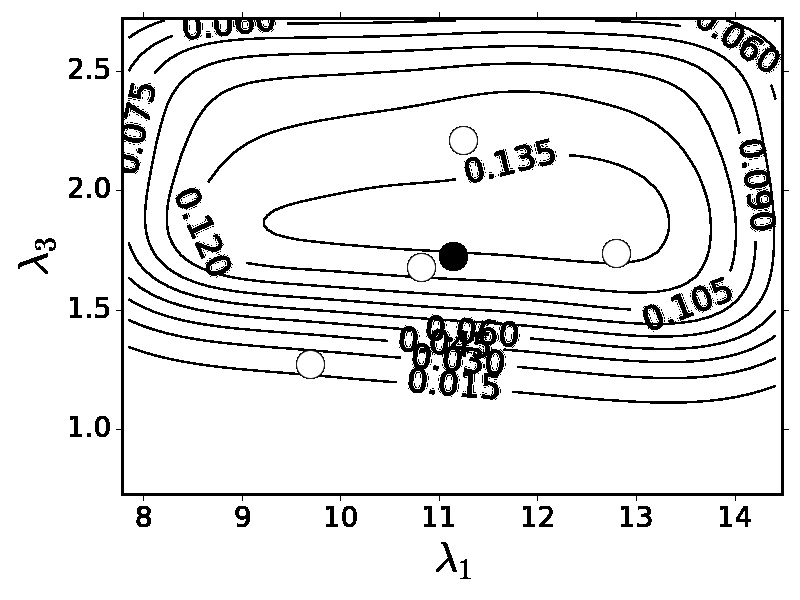
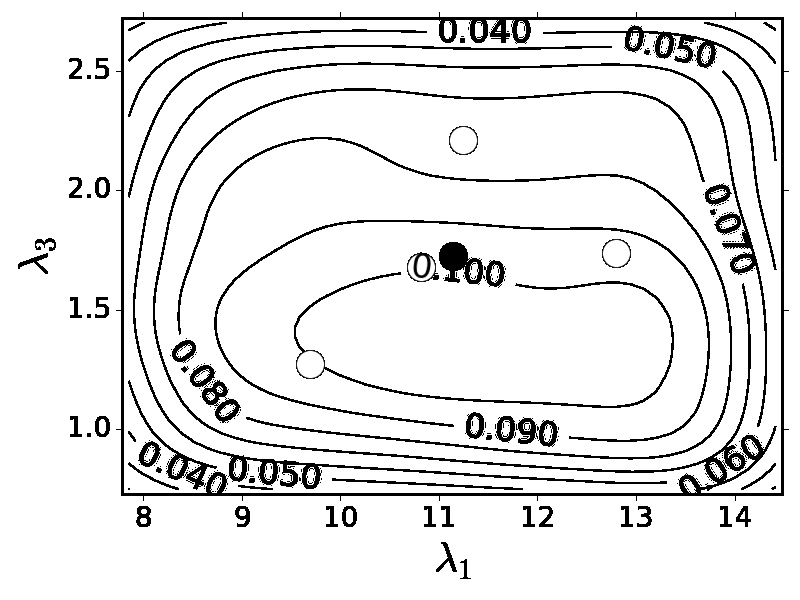
Added 4var model

diff --git a/examples/Yongcheng/3 variables code---no tf and D/6wks_4vars.py b/examples/Yongcheng/3 variables code---no tf and D/6wks_4vars.py
@@ -1,0 +1,122 @@
+# -*- coding: utf-8 -*-
+#! /usr/bin/env python
+
+# Copyright (C) 2014-2016 The BET Development Team
+
+import numpy as np
+import bet.calculateP.simpleFunP as simpleFunP
+import bet.calculateP.calculateP as calculateP
+import bet.postProcess.plotP as plotP
+import bet.postProcess.plotDomains as plotD
+import bet.sample as samp
+import bet.sampling.basicSampling as bsam
+from myModel_4vars import my_model
+
+sampler = bsam.sampler(my_model)
+input_samples = samp.sample_set(4)
+input_samples.set_domain(np.array([[7.79, 14.48],
+                                   [50, 300],
+                                   [0.73, 2.72],
+                                   [1.0, 2.0]]))
+                                   
+randomSampling = True
+if randomSampling is True:
+    input_samples = sampler.random_sample_set('random',
+                                              input_samples,
+                                              num_samples=1E5)
+else:
+    input_samples = sampler.regular_sample_set(input_samples,
+                              num_samples_per_dim=[50, 50, 50, 50])
+    
+MC_assumption = True
+# Estimate volumes of Voronoi cells associated with the parameter samples
+if MC_assumption is False:
+    input_samples.estimate_volume(n_mc_points=1E5)
+else:
+    input_samples.estimate_volume_mc()
+
+# Create the discretization object using the input samples
+my_discretization = sampler.compute_QoI_and_create_discretization(input_samples,
+                                               savefile = 'Deflection_discretization.txt.gz')
+
+#param_ref = np.array([[20, 227, 16.7]])
+
+print np.min(my_discretization._output_sample_set._values)
+print np.max(my_discretization._output_sample_set._values)
+
+#Q_ref =  my_model(param_ref)
+Q_ref =58.39
+#plotD.scatter_2D_multi(input_samples, ref_sample= param_ref, showdim = 'all',
+                      #filename = 'linearMap_ParameterSamples',
+                       #file_extension = '.eps')
+#plotD.show_data_domain_2D(my_discretization, Q_ref = Q_ref, file_extension='.eps')
+
+
+simpleFunP.uniform_partition_normal_distribution(
+                        data_set=my_discretization, 
+                        Q_ref=Q_ref, std = 2.44, M = 20)
+#        cells_per_dimension = 3))
+#randomDataDiscretization = False
+#if randomDataDiscretization is False:
+#    simpleFunP.regular_partition_uniform_distribution_rectangle_scaled(
+#        data_set=my_discretization, Q_ref=Q_ref, rect_scale=0.1,
+#        cells_per_dimension = 3)
+#else:
+#    simpleFunP.uniform_partition_uniform_distribution_rectangle_scaled(
+#        data_set=my_discretization, Q_ref=Q_ref, rect_scale=0.1,
+#        M=50, num_d_emulate=1E5)
+
+# calculate probablities
+calculateP.prob(my_discretization)
+
+
+########################################
+# Post-process the results
+########################################
+ref_param = np.array([11.14, 109.58, 1.724, 1.5])
+ref_params = np.array([[10.82, 140.37, 1.678, 1.5],
+                       [9.69, 109.13, 1.273, 1.5],
+                       [12.8, 105.05, 1.736, 1.5],
+                       [11.25, 83.79, 2.209, 1.5]])
+
+# calculate 2d marginal probs
+(bins, marginals2D) = plotP.calculate_2D_marginal_probs(input_samples,
+                                                        nbins = 50)
+
+plotP.plot_2D_marginal_probs(marginals2D, bins, input_samples, 
+                             lam_ref = ref_param,
+                             filename = "Deflection_NotSmooth",
+                             file_extension = ".jpg", plot_surface=False)
+
+# smooth 2d marginals probs (optional)
+marginals2D = plotP.smooth_marginals_2D(marginals2D, bins, 
+                                        sigma=[1.0,10,0.25,0.2])
+
+# plot 2d marginals probs
+plotP.plot_2D_marginal_contours(marginals2D, bins, input_samples, 
+                             lam_ref = ref_param,
+                             lam_refs = ref_params,
+                             contour_num = 10,
+                             contour_font_size = 20,
+                             filename = "Deflection",
+                             file_extension = ".jpg")
+
+# calculate 1d marginal probs
+(bins, marginals1D) = plotP.calculate_1D_marginal_probs(input_samples,
+                                                        nbins = 50)
+
+plotP.plot_1D_marginal_probs(marginals1D, bins, input_samples, 
+                             lam_ref = ref_param,
+                             filename = "Deflection_NotSmooth",
+                             file_extension = ".jpg")
+
+# smooth 1d marginal probs (optional)
+marginals1D = plotP.smooth_marginals_1D(marginals1D, bins,
+                                        sigma=[0.5,40,0.5, 0.2])
+# plot 1d marginal probs
+plotP.plot_1D_marginal_probs(marginals1D, bins, input_samples, 
+                             lam_ref = ref_param,
+                             filename = "Deflection",
+                             file_extension = ".jpg")
+
+

diff --git a/examples/Yongcheng/3 variables code---no tf and D/myModel_4vars.py b/examples/Yongcheng/3 variables code---no tf and D/myModel_4vars.py
@@ -1,0 +1,23 @@
+# -*- coding: utf-8 -*-
+
+# Copyright (C) 2016 The BET Development Team
+
+# -*- coding: utf-8 -*-
+#import numpy as np
+
+#x = np.linspace(0,10,100)
+#y = np.linspace(0,8,100)
+#z = np.linspace(2,8,100)
+#t=2
+# Define a model that is a linear QoI map
+def my_model(parameter_samples):
+    B = parameter_samples[:,0]
+    C = parameter_samples[:,1]
+    F = parameter_samples[:,2]
+    mult = parameter_samples[:,3]
+    T = 0.0065
+    D = 4.03
+#    T = np.random.normal(0.0065, 0.00033, 6000000)
+#    D = np.random.normal(4, 0.00033, 6000000)
+    A = B+10*(6.6*mult)*C*T*F/D #elementwise operations
+    return A
